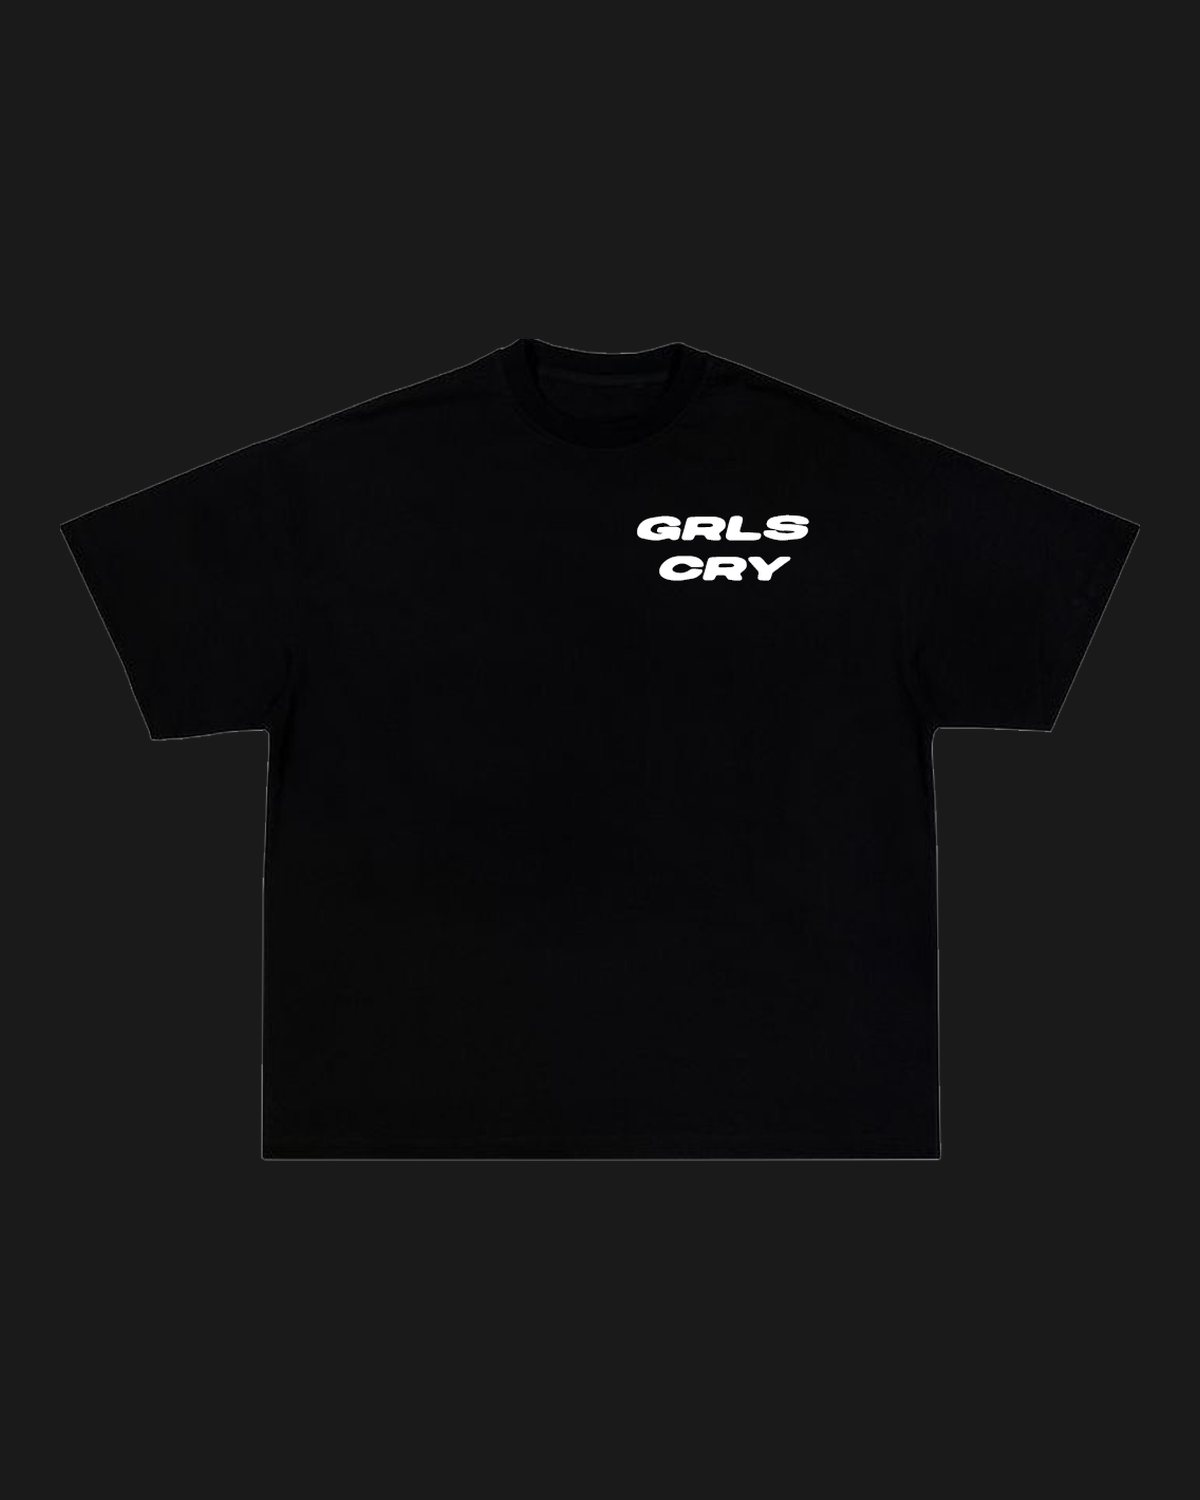
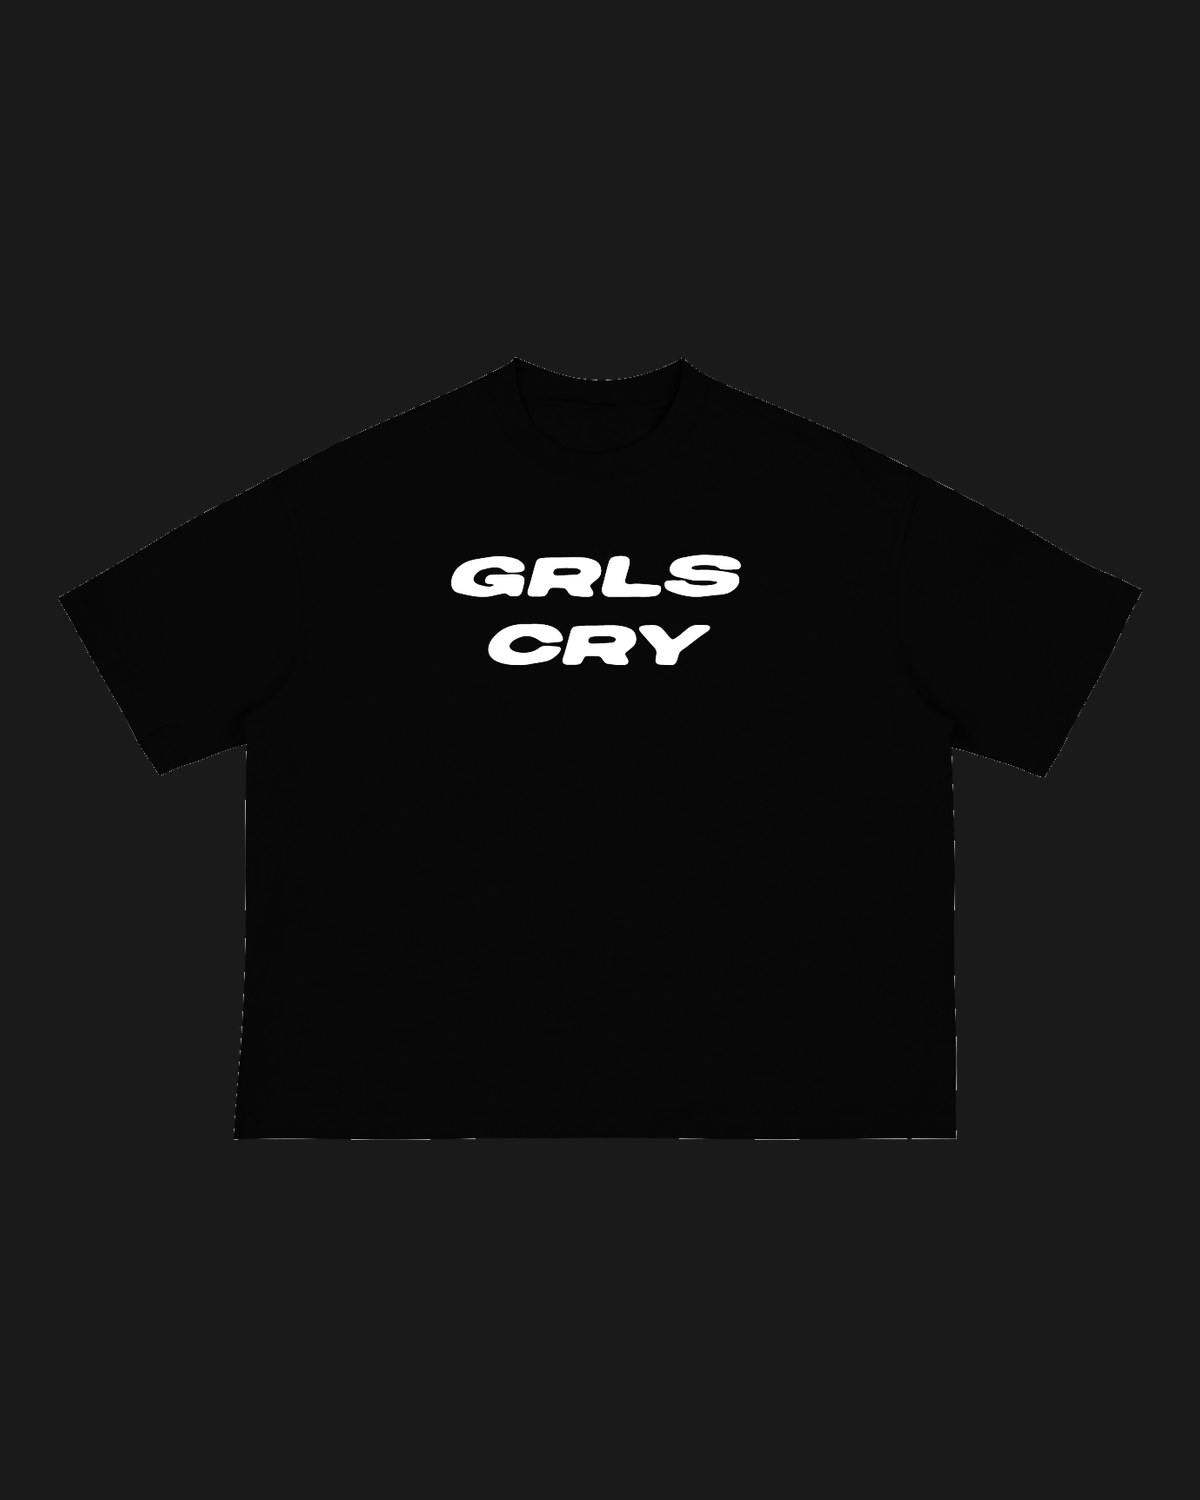
remove Netlify leftovers; centred-chest front mockup
Netlify project deleted by Luke 2026-09-25: drop netlify/ and _headers,
vercel.json is now the only CSP; admin panel and comments say Vercel.
tee-front.jpg replaced with Luke's correct centred-chest mockup, cut from
its white background and the charcoal fabric darkened to match the black
back (print untouched).

Changed region(s): [[0.37, 0.3373, 0.6783, 0.46], [0.555, 0.2147, 0.5858, 0.2453], [0.4317, 0.2147, 0.4625, 0.2453]]

diff --git a/admin/index.html b/admin/index.html
@@ -402,8 +402,8 @@
 <script>
   /* ══════════════════════════════════════════════════════════
      CONFIG — no password lives here.
-     The password is ADMIN_SECRET in Netlify → Site settings →
-     Environment variables, alongside GITHUB_TOKEN. It is verified
+     The password is ADMIN_SECRET in Vercel → project grlscry-site →
+     Settings → Environment Variables, alongside GITHUB_TOKEN. It is verified
      server-side by the save-content function and is never shipped
      to the browser. What the user types is held in memory only for
      the life of the tab, then sent as the x-admin-secret header.
@@ -464,8 +464,8 @@
         // reads as a crash when it is really a one-time config step.
         if (res.status === 500 && /ADMIN_SECRET/.test(err.error || '')) {
           $('pw-error').innerHTML =
-            'Setup needed: add <strong>ADMIN_SECRET</strong> in Netlify &rarr; ' +
-            'Site settings &rarr; Environment variables, then redeploy. ' +
+            'Setup needed: add <strong>ADMIN_SECRET</strong> in Vercel &rarr; ' +
+            'project Settings &rarr; Environment Variables, then redeploy. ' +
             'Its value becomes this password.';
         } else {
           $('pw-error').textContent = `✗ ${err.error || 'Server error ' + res.status}`;
@@ -489,7 +489,7 @@
 
   /* ── LOAD CONTENT ──────────────────────────────────────────
      Reads content.json directly from the site root.
-     Netlify serves it as a static file — no token needed.
+     Vercel serves it as a static file — no token needed.
   ─────────────────────────────────────────────────────────── */
   function loadContent() {
     $('load-overlay').classList.add('show');
@@ -765,7 +765,7 @@
     };
   }
 
-  /* ── SAVE → Netlify function → GitHub ─────────────────────
+  /* ── SAVE → Vercel function → GitHub ──────────────────────
      POSTs the content object to /api/save-content.
      The function reads GITHUB_TOKEN from process.env server-side.
      No token ever touches this file or the browser.
@@ -795,7 +795,7 @@
         throw new Error(result.error || `Server error ${res.status}`);
       }
 
-      setStatus(`✓ Published! Netlify deploying now (~30s). Commit: ${result.commit}`);
+      setStatus(`✓ Published! Vercel deploying now (~30s). Commit: ${result.commit}`);
 
     } catch (err) {
       setStatus(`✗ ${err.message}`, false);

diff --git a/index.html b/index.html
@@ -1922,7 +1922,7 @@
         <div class="r d2">
           <form id="cf" name="booking" method="post" action="/api/booking" novalidate>
             <!-- Spam trap: hidden from people, tempting to bots. A submission
-                 that fills this in is silently discarded by Netlify. -->
+                 that fills this in is silently discarded by api/booking.js. -->
             <p hidden aria-hidden="true">
               <label>Leave this field empty: <input name="bot-field" tabindex="-1" autocomplete="off"></label>
             </p>

diff --git a/api/save-content.js b/api/save-content.js
@@ -1,5 +1,5 @@
 // api/save-content.js — Vercel serverless function.
-// Ported from netlify/functions/save-content.js. Same contract:
+// Originally ported from the Netlify function (removed 2026-09-25). Same contract:
 // POST with an x-admin-secret header matching ADMIN_SECRET; body is either
 // {verify:true} to check the password, or {content:{...}} to commit
 // content.json to GitHub. Fails closed if ADMIN_SECRET is unset.

diff --git a/api/booking.js b/api/booking.js
@@ -1,4 +1,4 @@
-// api/booking.js — replaces Netlify Forms, which has no Vercel equivalent.
+// api/booking.js — the booking form's mail sender (replaced Netlify Forms).
 //
 // Sends the booking inquiry straight to the band's own Gmail over Gmail's SMTP.
 // No third-party email service holds or relays the message.

diff --git a/CLAUDE.md b/CLAUDE.md
@@ -20,9 +20,9 @@ admin login 200 and bad secret 401; an admin publish committed `c3603be` to `mai
 (the only change was the trailing newline of `content.json`); valid HTTPS on both
 hostnames.
 
-**Netlify site `grlscry` is DISABLED, not deleted** (Luke, 2026-09-24). Deleting it is
-Luke's call. `netlify/` and `_headers` stay in the repo until it's deleted, since the
-`shop-netlify` branch is the fallback if Netlify is ever re-enabled.
+**Netlify is gone.** Luke deleted the `grlscry` Netlify project on 2026-09-25, and
+`netlify/` + `_headers` were removed from the repo the same day. The old
+`shop-netlify` branch is history only; there is no Netlify fallback any more.
 
 The 3D jelly-logo hero (V1, approved) shipped with the cutover. Its specs are in
 `PROMPT-cinematic-jelly-logo.md` and `PROMPT-logo-3d-motion.md` (Tier B, WebGL
@@ -43,14 +43,9 @@ it in a browser. Third-party code is CDN `<script>` tags only.
 | `admin/index.html` | Password-gated panel that edits `content.json` and publishes it. |
 | `api/save-content.js` | Vercel function: commits `content.json` to GitHub. |
 | `api/booking.js` | Vercel function: sends booking-form mail via nodemailer. |
-| `netlify/functions/save-content.js` | The Netlify twin of `save-content`. Not live (Netlify disabled). |
-| `_headers` | Netlify security headers + CSP. **Not live** (Netlify disabled); `vercel.json` is the live CSP. |
-| `vercel.json` | Vercel headers + CSP. Mirror of `_headers`. |
-| `.vercelignore` | What deploys leave out (`CLAUDE.md`, `netlify/`, `_headers`, `README.md`). `.gitignore` does not control deploys. |
+| `vercel.json` | Security headers + CSP. The only place the CSP lives. |
+| `.vercelignore` | What deploys leave out (`CLAUDE.md`, `README.md`, prompts, `tools/`, the logo source PNG). `.gitignore` does not control deploys. |
 | `images/` | Photography, OG cover, tee mockups. |
-
-`_headers` and `vercel.json` carry the same CSP. **Change both together** —
-whichever host is live, the other is one push away from being live.
 
 ## Content pipeline
 
@@ -63,7 +58,7 @@ whichever host is live, the other is one push away from being live.
 
 **Adding a content key means touching four places:** `content.json`, the
 hydration block at the bottom of `index.html`, `populateForm`/`collectData` in
-`admin/index.html`, and `ALLOWED_KEYS` in **both** `save-content.js` files. Miss
+`admin/index.html`, and `ALLOWED_KEYS` in `api/save-content.js`. Miss
 the last one and every admin save fails with a 422.
 
 Everything from `content.json` lands in `innerHTML`, so it goes through `esc()`
@@ -114,11 +109,12 @@ as an Instagram bio link.
   `tools/stripe_setup.py test|live` (re)creates products, prices, the shipping rate and
   links idempotently, using `STRIPE_{TEST,LIVE}_RESTRICTED_KEY` from the credentials file.
   Stripe account review was still "in progress" on 2026-09-25.
-- **Mockups:** `images/tee-front.jpg` / `tee-back.jpg`, cut out of Luke's own
-  `~/Pictures/Merch-Mockup-goodbadgirls.png` using its alpha channel, on 4:5
-  `#1A1A1A` cards. ⚠ The mockup puts the front print on the **left chest**, but
-  the product docs say **centered chest**. The photo must match what Tapstitch
-  prints.
+- **Mockups:** 4:5 `#1A1A1A` cards, tee spanning x 57–1143. `tee-back.jpg` is cut out
+  of Luke's `~/Pictures/Merch-Mockup-goodbadgirls.png`. **`tee-front.jpg` was replaced
+  2026-09-25** with Luke's correct **centred-chest** mockup
+  (`~/Pictures/4b243e5689b54b34b544084c0092aae2.png`): cut from its white background,
+  and the charcoal fabric darkened to the back's black (RGB ≈ 8), with the print left
+  untouched.
 - `size_chart`, when set to a relative image path or an https URL, shows a
   "Size chart ↗" link under the size buttons. Hidden when empty or sold out.
 - `sold_out: true` is the drop mechanic — one toggle in the admin panel swaps the
@@ -162,8 +158,8 @@ the booking form and admin publishing will fail locally, which is expected.
 - Event data is duplicated in three places: the JSON-LD block in `<head>`, the
   hardcoded Shows table, and `content.json`. Keep all three in sync. Never emit a
   past event as upcoming.
-- CSP is strict. Any new third-party origin must be added to **both** `_headers`
-  and `vercel.json` or it is silently blocked.
+- CSP is strict (in `vercel.json`). Any new third-party origin must be added there
+  or it is silently blocked.
 - `.r` elements start at `opacity: 0` and are revealed by GSAP. Under
   `prefers-reduced-motion` that JS is skipped, so a CSS rule forces them visible.
   Don't remove it — without it, reduced-motion users see empty sections.
